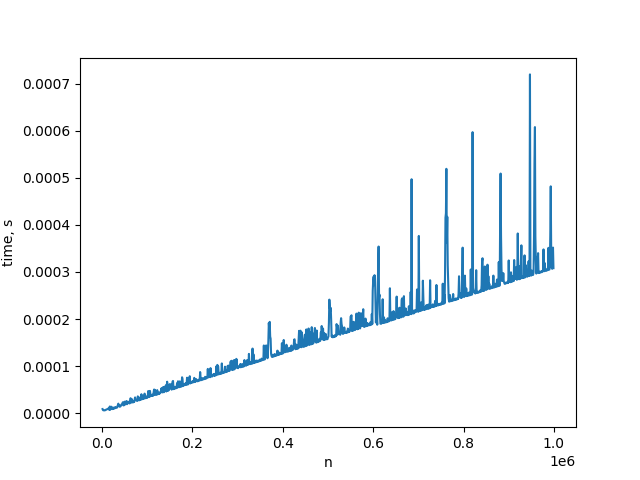
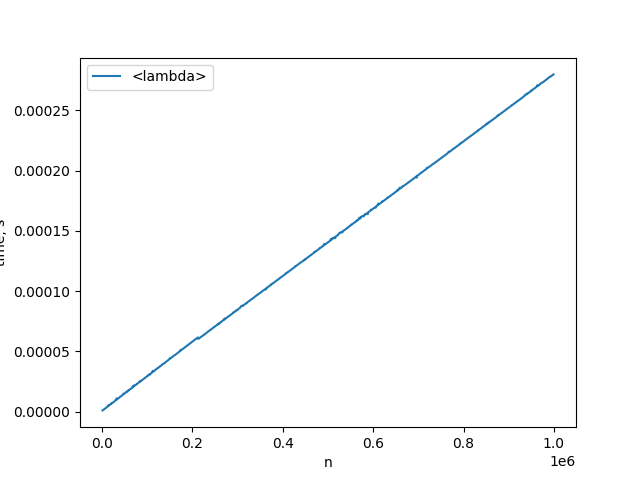
add time complexity plot readme and test it on task_28

diff --git a/time_compexity_plot/plot.py b/time_compexity_plot/plot.py
@@ -1,5 +1,6 @@
+import pathlib
 from timeit import timeit
-from typing import Union
+from typing import Union, Callable
 
 import matplotlib.pyplot as plt
 import numpy as np
@@ -11,13 +12,22 @@ def get_measure_time_func(func: callable, min_of_n, n_times) -> callable:
                                       number=n_times) for _ in range(min_of_n)])
 
 
+def save_readme(fig_name: str):
+    if pathlib.Path(fig_name).exists():
+        with open("README.md", "w") as f:
+            f.write(f"""# Time complexity plot\n![image]({fig_name})""")
+    else:
+        raise FileExistsError(f"{fig_name} file does not exists")
+
+
 def plot_time_complexity(funcs: Union[list[callable], callable], inputs_func: callable, n_start: int = 10 ** 3,
                          n_stop: int = 10 ** 6,
-                         n_step: int = 10 ** 3, n_times: int = 1, min_of_n=2):
+                         n_step: int = 10 ** 3, n_times: int = 1, min_of_n: int = 2,
+                         generate_readme: bool = True, fig_name: str = "complexity.png"):
     ns = list(np.arange(n_start, n_stop, n_step))
     if isinstance(funcs, list):
         pass
-    elif isinstance(funcs, callable):
+    elif isinstance(funcs, Callable):
         func = funcs
         funcs = [0]
         funcs[0] = func
@@ -31,8 +41,10 @@ def plot_time_complexity(funcs: Union[list[callable], callable], inputs_func: ca
     plt.xlabel("n")
     plt.ylabel("time, s")
     plt.legend()
-    plt.savefig("complexity.png")
+    plt.savefig(fig_name)
     plt.show()
+    if generate_readme:
+        save_readme(fig_name)
 
 
 if __name__ == '__main__':

diff --git a/easy/28. Find the Index of the First Occurrence in a String/task_28.py b/easy/28. Find the Index of the First Occurrence in a String/task_28.py
@@ -6,4 +6,5 @@ def sub_idx(haystack: str, needle: str) -> int:
 
 
 if __name__ == '__main__':
-    plot_time_complexity(lambda n: sub_idx(haystack="abcdef" * (n // 6) + "sad", needle="sad"))
+    plot_time_complexity(lambda inputs: sub_idx(haystack=inputs, needle="sad"),
+                         lambda n: "abcdef" * (n // 6) + "sad", min_of_n=10)

diff --git a/easy/28. Find the Index of the First Occurrence in a String/README.md b/easy/28. Find the Index of the First Occurrence in a String/README.md
@@ -1,0 +1,2 @@
+# Time complexity plot
+![image](complexity.png)
